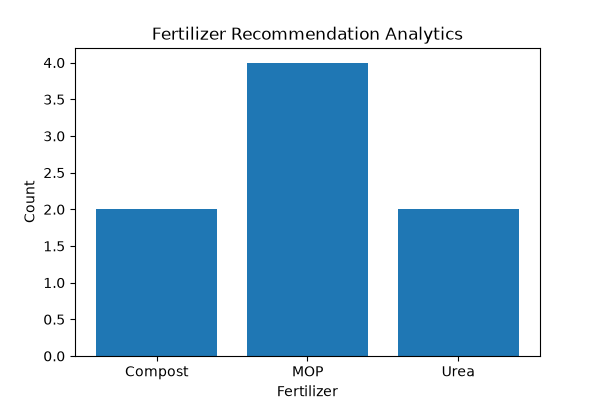
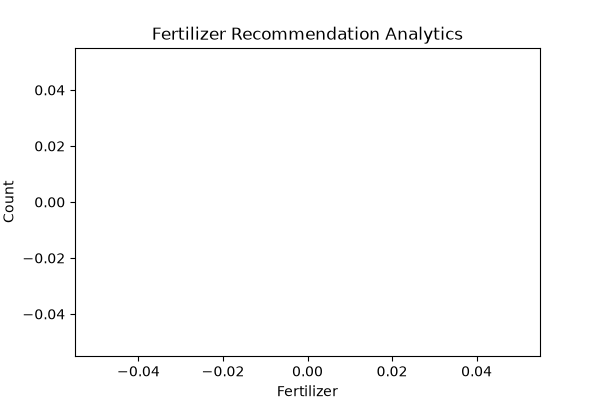
Updated fertilizer page, history clear button and latest improvements

diff --git a/templates/fertilizer.html b/templates/fertilizer.html
@@ -85,20 +85,39 @@
 
 <div class="result-box">
 
-<p><b>Temperature:</b> {{ sensor.temperature }} °C</p>
+<p><b>🌡 Temperature:</b> {{ sensor.temperature }} °C</p>
 
-<p><b>Humidity:</b> {{ sensor.humidity }} %</p>
+<p><b>💧 Humidity:</b> {{ sensor.humidity }} %</p>
 
-<p><b>Soil Moisture:</b> {{ sensor.soil }}</p>
+<p><b>🌱 Soil Moisture:</b> {{ sensor.soil }}</p>
 
-<p><b>pH:</b> {{ sensor.ph }}</p>
+<p><b>⚗ pH:</b> {{ sensor.ph }}</p>
 
-<p><b>Nitrogen:</b> {{ sensor.nitrogen }}</p>
+<hr>
 
-<p><b>Phosphorus:</b> {{ sensor.phosphorus }}</p>
+<h3>Enter NPK Values</h3>
 
-<p><b>Potassium:</b> {{ sensor.potassium }}</p>
+<label>Nitrogen (N)</label>
+<input type="number"
+       name="nitrogen"
+       placeholder="Enter Nitrogen"
+       required>
 
+<br><br>
+
+<label>Phosphorus (P)</label>
+<input type="number"
+       name="phosphorus"
+       placeholder="Enter Phosphorus"
+       required>
+
+<br><br>
+
+<label>Potassium (K)</label>
+<input type="number"
+       name="potassium"
+       placeholder="Enter Potassium"
+       required>
 </div>
 
 <button type="submit">

diff --git a/templates/history.html b/templates/history.html
@@ -22,11 +22,33 @@
 
 <a href="/about">About</a>
 
-
-
 </nav>
 
 <h1>📜 Sensor History</h1>
+
+<!-- Clear History Button -->
+<div style="text-align:right; margin:20px;">
+
+<form action="/clear_history"
+      method="POST"
+      onsubmit="return confirm('Are you sure you want to clear all history?');">
+
+<button type="submit"
+style="background:#d9534f;
+color:white;
+padding:10px 20px;
+border:none;
+border-radius:5px;
+font-size:16px;
+cursor:pointer;">
+
+🗑 Clear History
+
+</button>
+
+</form>
+
+</div>
 
 {% if records %}
 

diff --git a/app.py b/app.py
@@ -1,4 +1,4 @@
-from flask import Flask, render_template, request, jsonify
+from flask import Flask, render_template, request, jsonify, redirect
 import sqlite3
 import joblib
 import pandas as pd
@@ -362,6 +362,19 @@ def history():
         "history.html",
         records=records
     )
+
[email redacted]("/clear_history", methods=["POST"])
+def clear_history():
+
+    conn = sqlite3.connect("database.db")
+    cursor = conn.cursor()
+
+    cursor.execute("DELETE FROM history")
+
+    conn.commit()
+    conn.close()
+
+    return redirect("/history")
 
 @app.route("/analytics")
 def analytics():